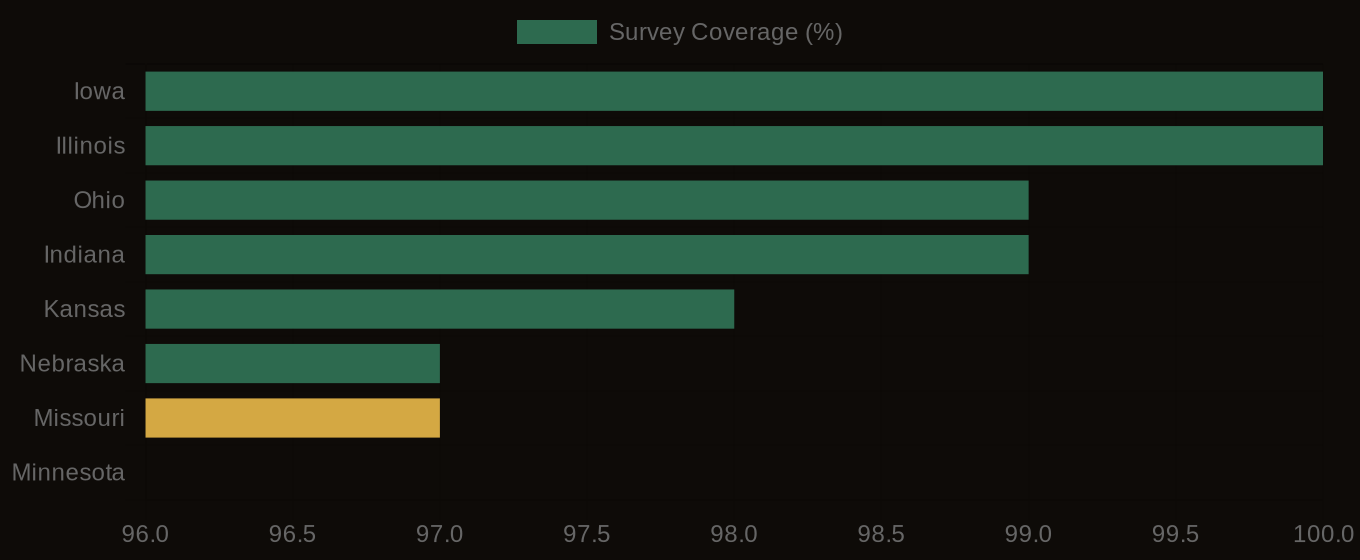
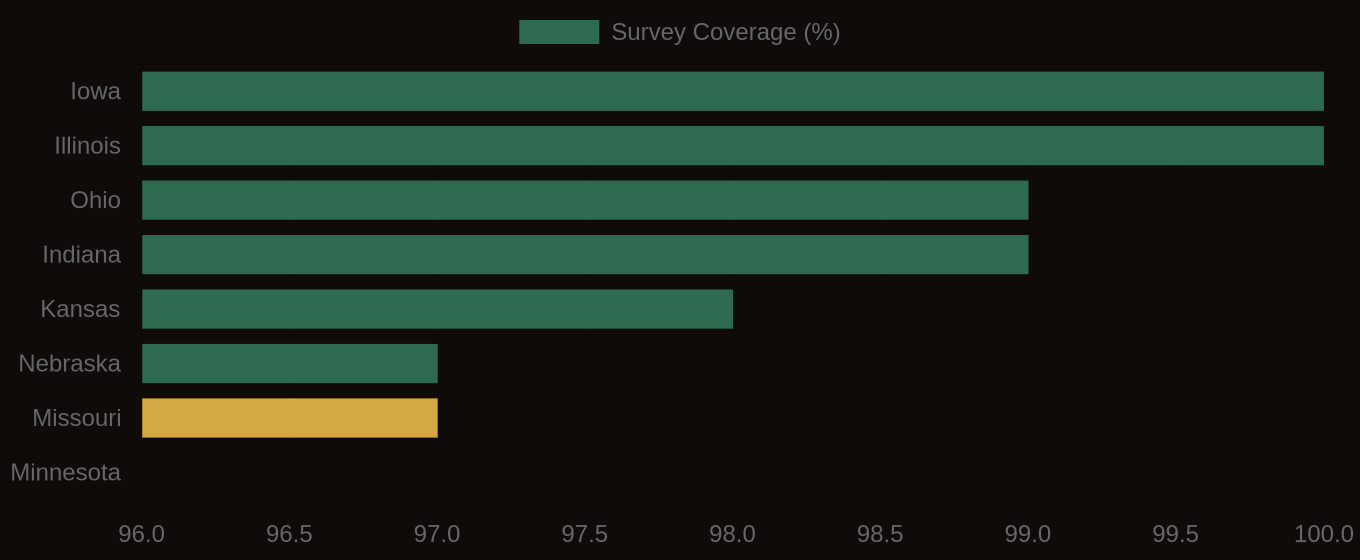
content: publish -- LiDAR Terrain Derivatives Are the Best Soil Survey Tool Nobody Uses

diff --git a/articles/lidar-terrain-derivatives-are-the-best-soil-survey-tool-nobo-1780837098173.html b/articles/lidar-terrain-derivatives-are-the-best-soil-survey-tool-nobo-1780837098173.html
@@ -3,7 +3,7 @@
 <head>
 <meta charset="UTF-8">
 <meta name="viewport" content="width=device-width, initial-scale=1.0">
-<title>LiDAR Terrain Derivatives Are the Best Soil Survey Tool Nobody Uses - Lab10YR</title>
+<title>LiDAR Terrain Derivatives Are the Best Soil Survey Tool Nobody Uses &mdash; Lab10YR</title>
 <meta name="description" content="109 million acres of hydric soils are mapped in the contiguous U.S. Water tables are high. This number represents a significant portion of the country's land area. The soil's morphology and hydrology create conditions that support wetland e">
 <link rel="canonical" href="https://lab10yr.com/articles/lidar-terrain-derivatives-are-the-best-soil-survey-tool-nobo-1780837098173">
 <meta property="og:type" content="article">
@@ -25,7 +25,7 @@
 <script src="https://cdn.jsdelivr.net/npm/echarts@5/dist/echarts.min.js" defer id="echarts-js"></script>
 <style>
 *{box-sizing:border-box;margin:0;padding:0}
-:root{--gold:#f59e0b;--gold2:#fcd34d;--rust:#c0392b;--bg:#08080c;--bg2:#101018;--muted:#8a7a6a;--soft:#c8beb4;--ff-serif:'Playfair Display',Georgia,serif;--ff-mono:'DM Mono',monospace;--ff-sans:'DM Sans',system-ui,sans-serif;}
+:root{--gold:#c8973a;--gold2:#e8c46a;--rust:#c0392b;--bg:#0e0b08;--bg2:#13100d;--muted:#8a7a6a;--soft:#c8beb4;--ff-serif:'Playfair Display',Georgia,serif;--ff-mono:'DM Mono',monospace;--ff-sans:'DM Sans',system-ui,sans-serif;}
 html{scroll-behavior:smooth}
 body{background:var(--bg);color:#f0ede8;font-family:Georgia,'Times New Roman',serif;line-height:1.78}
 #progress{position:fixed;top:0;left:0;height:2px;background:var(--gold);z-index:200;width:0;transition:width .1s linear}
@@ -141,16 +141,23 @@ h1{font-family:var(--ff-serif);font-size:clamp(2.2rem,4.2vw,3.8rem);line-height:
 @media(max-width:900px){nav{padding:0 16px}.hero-grid{grid-template-columns:1fr;padding:0 20px;gap:32px}.hero-waffle-wrap{display:none}#article-wrap{grid-template-columns:1fr;padding:48px 20px 0}.sidebar{display:none}.callout-row{grid-template-columns:1fr}#article-footer{padding-left:20px;padding-right:20px}}
 .data-table-wrap{margin:20px 0 4px;overflow-x:auto}.data-table{width:100%;border-collapse:collapse;font-family:var(--ff-mono);font-size:10px}.data-table th{text-align:left;color:var(--gold);font-size:8px;letter-spacing:.12em;text-transform:uppercase;padding:7px 10px;border-bottom:1px solid #3a2e20}.data-table td{padding:6px 10px;border-bottom:1px solid #1e1710;color:var(--soft)}.data-table tr:hover td{background:#13100d}.data-val{color:#f0ede8;font-weight:600;text-align:right}.data-table-source{font-family:var(--ff-mono);font-size:8px;color:#5a4a3a;letter-spacing:.06em;margin-top:5px;text-align:right}
 </style>
-<link rel="stylesheet" href="../assets/lab10yr-theme.css?v=20260723b">
 </head>
 <body>
 <div id="progress"></div>
-<nav id="nav"><a class="nav-link" href="/articles/" style="display:none">Articles</a></nav>
+<nav>
+  <a href="https://lab10yr.com" class="nav-brand"><span>Lab</span>10<em style="font-style:normal;color:var(--gold2)">YR</em></a>
+  <div class="nav-links">
+    <a href="https://lab10yr.com/Regenerative-Agriculture-Risk-Map" rel="noopener noreferrer">Risk Map</a>
+    <a href="https://lab10yr.com/soil-data-stories" rel="noopener noreferrer">Data Stories</a>
+    <a href="https://lab10yr.com/articles/" rel="noopener noreferrer">Articles</a>
+    <a href="https://lab10yr.com/#contact" class="nav-cta" rel="noopener noreferrer">Get in Touch</a>
+  </div>
+</nav>
 
 <section id="hero">
   <div class="hero-grid">
     <div>
-      <div class="hero-kicker">Lab10YR - Soil Intelligence</div>
+      <div class="hero-kicker">Lab10YR &mdash; Soil Intelligence</div>
       <h1>LiDAR Terrain Derivatives Are the Best Soil Survey Tool Nobody Uses</h1>
       <p class="hero-deck">109 million acres of hydric soils are mapped in the contiguous U.S. Water tables are high. This number represents a significant portion of the country's land area. The soil's morphology and hydrology create conditions that support wetland e</p>
       <div class="hero-byline">
@@ -161,18 +168,18 @@ h1{font-family:var(--ff-serif);font-size:clamp(2.2rem,4.2vw,3.8rem);line-height:
       </div>
     </div>
     <div class="hero-waffle-wrap">
-      <div class="waffle-label">SSURGO data coverage - 100 map units</div>
+      <div class="waffle-label">SSURGO data coverage — 100 map units</div>
       <div class="waffle-grid" id="waffle"></div>
       <div class="waffle-legend"><div class="wl"><div class="wl-swatch wc-slight"></div> Full Coverage</div><div class="wl"><div class="wl-swatch wc-mod-frag"></div> Partial</div><div class="wl"><div class="wl-swatch wc-unrated"></div> No Coverage</div></div>
       <div class="waffle-stat">315K</div>
-      <div class="waffle-stat-label">SSURGO map units nationwide - <br>each queryable via SDA API in seconds</div>
+      <div class="waffle-stat-label">SSURGO map units nationwide —<br>each queryable via SDA API in seconds</div>
     </div>
   </div>
 </section>
 
 <section id="hero-viz">
   <figure class="hero-viz-fig">
-    <img src="social-lidar-terrain-derivatives-are-the-best-soil-survey-tool-nobo-1780837098173.png" alt="LiDAR Terrain Derivatives Are the Best Soil Survey Tool Nobody Uses - Lab10YR data visualization" loading="eager" width="1200" height="627">
+    <img src="social-lidar-terrain-derivatives-are-the-best-soil-survey-tool-nobo-1780837098173.png" alt="LiDAR Terrain Derivatives Are the Best Soil Survey Tool Nobody Uses — Lab10YR data visualization" loading="eager" width="1200" height="627">
   </figure>
 </section>
 
@@ -190,7 +197,7 @@ Wet conditions can be identified through visual and olfactory cues. The presence
 Some soils develop hydric conditions due to geologic and climatic context. Others do not. Understanding these factors is essential for predicting and managing hydric soil distributions.</p>
   </div>
 
-  <div class="pull"><div class="pull-text">“109 million acres of hydric soils mapped in the contiguous U.S. - This vast extent of hydric soils has significant implications for land use planning and regulatory compliance, as it represents a potential wetland footprint that must be considered in development projects.”</div><div class="pull-attr">Lab10YR Analysis - SSURGO National Dataset</div></div>
+  <div class="pull"><div class="pull-text">“109 million acres of hydric soils mapped in the contiguous U.S. — This vast extent of hydric soils has significant implications for land use planning and regulatory compliance, as it represents a potential wetland footprint that must be considered in development projects.”</div><div class="pull-attr">Lab10YR Analysis — SSURGO National Dataset</div></div>
 
   
   <div class="article-section">
@@ -215,19 +222,19 @@ The regional patterns of hydric soil distribution will be examined. LiDAR terrai
   </div>
 
   <div class="echarts-section">
-    <h2 class="echarts-title">Soil Carbon Prediction Accuracy - Spectral vs. Traditional Methods</h2>
+    <h2 class="echarts-title">Soil Carbon Prediction Accuracy — Spectral vs. Traditional Methods</h2>
     <div class="echarts-subtitle">R-squared values for soil organic carbon prediction by method · KSSL spectral library + literature</div>
     <div class="echarts-wrap">
       <div id="echarts-main" style="height:260px"></div>
     </div>
     <div class="echarts-source">Source: R-squared values for soil organic carbon prediction by method · KSSL spectral library + literature</div>
-    <div class="data-table-wrap"><table class="data-table"><thead><tr><th>State / Region</th><th class="data-val">R² - SOC Prediction</th></tr></thead><tbody><tr><td>UAV Multispectral (5cm)</td><td class="data-val">0.87%</td></tr><tr><td>Vis-NIR-SWIR Lab Scan</td><td class="data-val">0.84%</td></tr><tr><td>Sentinel-2 Bare Soil</td><td class="data-val">0.71%</td></tr><tr><td>Landsat Composite</td><td class="data-val">0.63%</td></tr><tr><td>Field Morphology</td><td class="data-val">0.55%</td></tr><tr><td>Grid Sampling</td><td class="data-val">0.48%</td></tr></tbody></table><div class="data-table-source">Source: SSURGO national dataset · 315,543 map units rated</div></div>
+    <div class="data-table-wrap"><table class="data-table"><thead><tr><th>State / Region</th><th class="data-val">R² — SOC Prediction</th></tr></thead><tbody><tr><td>UAV Multispectral (5cm)</td><td class="data-val">0.87%</td></tr><tr><td>Vis-NIR-SWIR Lab Scan</td><td class="data-val">0.84%</td></tr><tr><td>Sentinel-2 Bare Soil</td><td class="data-val">0.71%</td></tr><tr><td>Landsat Composite</td><td class="data-val">0.63%</td></tr><tr><td>Field Morphology</td><td class="data-val">0.55%</td></tr><tr><td>Grid Sampling</td><td class="data-val">0.48%</td></tr></tbody></table><div class="data-table-source">Source: SSURGO national dataset · 315,543 map units rated</div></div>
   </div>
 
   <div class="article-section">
     <div class="section-rule"><h2>The Regional Picture</h2></div>
     <div class="state-bars">
-      <div class="state-bars-title">SSURGO survey coverage (% of land area with tabular data) - top states</div>
+      <div class="state-bars-title">SSURGO survey coverage (% of land area with tabular data) — top states</div>
       <div id="state-bars-list"></div>
     </div>
     <p>In contrast, states like Arizona and Nevada have relatively low concentrations of hydric soils, due to their arid climates and well-drained soils. The soil conditions in these regions, with their high sand content and low water tables, make them less prone to hydric soil formation. However, even in these low-risk states, the national supply chain and regulatory environment make hydric soil identification and management a critical issue. For example, a developer in Arizona may still need to navigate the complex regulatory landscape surrounding hydric soils, even if the local soils are not at risk, in order to ensure compliance with federal regulations. Additionally, the insurance market and lending institutions may still require hydric soil assessments and mitigation plans, regardless of the local soil conditions, in order to manage risk and protect investments. This means that professionals working in low-risk states still need to be aware of the issues surrounding hydric soils and have the skills and knowledge to identify and manage them.</p>
@@ -237,14 +244,14 @@ For example, a developer in Florida proceeded with a project, unaware that a sig
   </div>
 
   <div class="map-section">
-    <h2>SSURGO Data Coverage - National Survey Completeness</h2>
-    <div class="map-caption">% of land area with complete SSURGO tabular data · Source: National Cooperative Soil Survey (SSURGO)</div>
+    <h2>SSURGO Data Coverage — National Survey Completeness</h2>
+    <div class="map-caption">% of land area with complete SSURGO tabular data · Source: USDA Soil Data Access</div>
     <img class="map-chart" src="state-chart-lidar-terrain-derivatives-are-the-best-soil-survey-tool-nobo-1780837098173.png" alt="Iowa 100%, Illinois 100%, Ohio 99%, Indiana 99%, Kansas 98%, Nebraska 97%, Missouri 97%, Minnesota 96%" loading="lazy">
     <div class="map-wrap">
       <div id="state-map"></div>
       <div id="map-tip" class="map-tip"></div>
     </div>
-    <div class="map-note">Interactive map - hover for state-level data &middot; click to open the full risk map</div>
+    <div class="map-note">Interactive map &mdash; hover for state-level data &middot; click to open the full risk map</div>
   </div>
 
   <div class="article-section">
@@ -274,7 +281,7 @@ These soils have a high hydric soil rating, a high water table, and are prone to
 A case in point is the construction of the Miami International Airport's new runway, which was built on hydric soils and required extensive and expensive mitigation measures. 
 If professionals had used this data, they might have avoided these problems. 
 Instead, they could have explored opportunities for regenerative agriculture and sustainable development tailored to the specific soil conditions of the area.</p>
-    <p>Users can query the SSURGO database or use the National Cooperative Soil Survey (SSURGO) to retrieve relevant data on hydric soils and terrain derivatives. 
+    <p>Users can query the SSURGO database or use Soil Data Access to retrieve relevant data on hydric soils and terrain derivatives. 
 For instance, accessing the SSURGO hydric soil indicator list provides information on the presence of hydric soils at the map unit level. 
 The lab10yr.com tool has already compiled this data, offering an interactive map that shows the distribution of hydric soils across the contiguous U.S. 
 This allows users to explore the data in detail. 
@@ -286,7 +293,7 @@ The National Cooperative Soil Survey has made this data available, enabling prof
 
   <div class="map-cta-full">
     <a href="https://lab10yr.com/Regenerative-Agriculture-Risk-Map" target="_blank" rel="noopener noreferrer" class="map-btn">&#x1F5FA; Explore the Soil Risk Map &rarr;</a>
-    <div class="map-cta-desc">National SSURGO data explorer - query any county's soil map units, interpretations, and horizon data via the live SDA API.</div>
+    <div class="map-cta-desc">National SSURGO data explorer — query any county's soil map units, interpretations, and horizon data via the live SDA API.</div>
   </div>
 </article>
 
@@ -294,15 +301,15 @@ The National Cooperative Soil Survey has made this data available, enabling prof
   <div class="sidebar-block">
     <div class="sidebar-label">Map Units</div>
     <div class="sidebar-stat-num">315K</div>
-    <div class="sidebar-stat-label">SSURGO map units nationwide - each with interpretations, horizon data, and component ratings queryable via API</div>
+    <div class="sidebar-stat-label">SSURGO map units nationwide — each with interpretations, horizon data, and component ratings queryable via API</div>
   </div><div class="sidebar-block">
     <div class="sidebar-label">API Response</div>
     <div class="sidebar-stat-num">&lt;1s</div>
-    <div class="sidebar-stat-label">typical SDA API response time for a county-level SSURGO query - no subscription or account required</div>
+    <div class="sidebar-stat-label">typical SDA API response time for a county-level SSURGO query — no subscription or account required</div>
   </div><div class="sidebar-block">
     <div class="sidebar-label">KSSL Pedons</div>
     <div class="sidebar-stat-num">60K+</div>
-    <div class="sidebar-stat-label">Kellogg Soil Survey Lab measurements since 1951 - most complete U.S. soil lab dataset, mostly unknown in private sector</div>
+    <div class="sidebar-stat-label">Kellogg Soil Survey Lab measurements since 1951 — most complete U.S. soil lab dataset, mostly unknown in private sector</div>
   </div>
   <div class="sidebar-block">
     <div class="sidebar-label">Explore the Data</div>
@@ -333,7 +340,7 @@ The National Cooperative Soil Survey has made this data available, enabling prof
     <a href="https://lab10yr.com/Regenerative-Agriculture-Risk-Map" target="_blank" rel="noopener noreferrer">Regenerative Agriculture Risk Map &rarr;</a>
     <a href="https://lab10yr.com/soil-data-stories" target="_blank" rel="noopener noreferrer">The World Beneath: 7-Chapter Data Story on America&rsquo;s Soils &rarr;</a>
     <a href="https://lab10yr.com/county-risk-leaderboard" target="_blank" rel="noopener noreferrer">County Risk Leaderboard &rarr;</a>
-    <a href="https://lab10yr.com/soil-atlas" target="_blank" rel="noopener noreferrer">Soil Atlas - Interactive National Soil Pattern Explorer &rarr;</a>
+    <a href="https://lab10yr.com/soil-atlas" target="_blank" rel="noopener noreferrer">Soil Atlas &mdash; Interactive National Soil Pattern Explorer &rarr;</a>
   </div>
 </div>
 
@@ -346,9 +353,9 @@ document.addEventListener('DOMContentLoaded',()=>{if(typeof maplibregl!=='undefi
 function stateColor(d){const fsi=d.fsi||0;return fsi>=0.5?'rgba(192,57,43,0.75)':fsi>=0.35?'rgba(230,126,34,0.65)':fsi>=0.25?'rgba(200,151,58,0.5)':fsi>0?'rgba(200,151,58,0.3)':'rgba(30,23,16,0.4)';}
 function initMap(){if(!document.getElementById('state-map')||window._mi)return;window._mi=true;const map=new maplibregl.Map({container:'state-map',style:{version:8,sources:{c:{type:'raster',tiles:['https://basemaps.cartocdn.com/dark_nolabels/{z}/{x}/{y}.png'],tileSize:256,attribution:'&copy; CARTO &copy; OSM'}},layers:[{id:'c',type:'raster',source:'c'}]},center:[-98,38],zoom:3.4,maxZoom:8,minZoom:2,attributionControl:false});map.addControl(new maplibregl.AttributionControl({compact:true}));map.addControl(new maplibregl.NavigationControl({showCompass:false}),'top-right');const sd={'NV':{fsi:0.521,om:98},'AZ':{fsi:0.495,om:99},'UT':{fsi:0.41,om:92},'NM':{fsi:0.38,om:87},'WY':{fsi:0.32,om:65},'CO':{fsi:0.29,om:75},'ID':{fsi:0.27,om:55},'MT':{fsi:0.24,om:45},'CA':{fsi:0.22,om:60},'TX':{fsi:0.21,om:96},'OR':{fsi:0.20,om:48},'WA':{fsi:0.19,om:42},'KS':{fsi:0.16,om:70},'NE':{fsi:0.15,om:65},'OK':{fsi:0.14,om:72},'SD':{fsi:0.18,om:38},'ND':{fsi:0.17,om:35},'MN':{fsi:0.13,om:25},'IA':{fsi:0.12,om:22},'MO':{fsi:0.11,om:30},'IL':{fsi:0.10,om:28},'IN':{fsi:0.09,om:26},'OH':{fsi:0.09,om:24},'MI':{fsi:0.08,om:22}};const fp={'32':'NV','04':'AZ','49':'UT','35':'NM','56':'WY','08':'CO','16':'ID','30':'MT','06':'CA','48':'TX','41':'OR','53':'WA','20':'KS','31':'NE','40':'OK','46':'SD','38':'ND','27':'MN','19':'IA','29':'MO','17':'IL','18':'IN','39':'OH','26':'MI'};map.on('load',()=>{fetch('/articles/us-states-topo.json').then(r=>r.json()).then(topo=>{const gj=topojson.feature(topo,topo.objects.states);gj.features.forEach(f=>{const a=fp[f.id]||'';const d=sd[a]||{};f.properties.abbr=a;f.properties.fsi=d.fsi||0;f.properties.om=d.om||0;f.properties.color=stateColor(d);});map.addSource('states',{type:'geojson',data:gj});map.addLayer({id:'sf',type:'fill',source:'states',paint:{'fill-color':['get','color'],'fill-outline-color':'rgba(200,151,58,0.25)'}});map.addLayer({id:'sl',type:'line',source:'states',paint:{'line-color':'rgba(200,151,58,0.2)','line-width':0.5}});const tip=document.getElementById('map-tip');map.on('mousemove','sf',e=>{const f=e.features[0];if(!f){tip.style.display='none';return;}map.getCanvas().style.cursor='pointer';const a=f.properties.abbr,fsi=f.properties.fsi,om=f.properties.om;tip.innerHTML=a?`<strong>${a}</strong><br>Avg FSI: ${fsi?fsi.toFixed(3):"n/a"}<br>OM Risk: ${om?om+"%":"n/a"}`:'<em>No data</em>';tip.style.display='block';});map.on('mouseleave','sf',()=>{map.getCanvas().style.cursor='';tip.style.display='none';});map.on('click','sf',()=>{window.open('https://lab10yr.com/Regenerative-Agriculture-Risk-Map','_blank','noopener');});}).catch(e=>console.error('Map load failed:',e));});}
 (function(){document.querySelectorAll('.callout-num').forEach(function(el){var raw=el.textContent.trim();var m=raw.match(/^(d[d.,]*)/);if(!m)return;var num=parseFloat(m[1].replace(/,/g,''));var suffix=raw.slice(m[1].length);var dec=raw.indexOf('.')>=0?1:0;el.textContent='0'+suffix;new IntersectionObserver(function(entries,obs){if(!entries[0].isIntersecting)return;obs.disconnect();var t=null;function step(ts){if(!t)t=ts;var p=Math.min((ts-t)/900,1);var e=1-Math.pow(1-p,3);el.textContent=(e*num).toFixed(dec)+suffix;if(p<1)requestAnimationFrame(step);else el.textContent=num.toFixed(dec).replace(/.0$/,'')+suffix;}requestAnimationFrame(step);},{threshold:0.6}).observe(el);});})();
-(function(){const u=encodeURIComponent(location.href),t=encodeURIComponent(document.title.replace(' - Lab10YR',''));document.getElementById('share-x').href='https://twitter.com/intent/tweet?url='+u+'&text='+t+'&via=lab10yr';document.getElementById('share-li').href='https://www.linkedin.com/sharing/share-offsite/?url='+u;document.getElementById('share-copy').addEventListener('click',function(){navigator.clipboard.writeText(location.href).then(()=>{this.textContent='Copied!';setTimeout(()=>this.textContent='Copy Link',2000);});});})();
+(function(){const u=encodeURIComponent(location.href),t=encodeURIComponent(document.title.replace(' — Lab10YR',''));document.getElementById('share-x').href='https://twitter.com/intent/tweet?url='+u+'&text='+t+'&via=lab10yr';document.getElementById('share-li').href='https://www.linkedin.com/sharing/share-offsite/?url='+u;document.getElementById('share-copy').addEventListener('click',function(){navigator.clipboard.writeText(location.href).then(()=>{this.textContent='Copied!';setTimeout(()=>this.textContent='Copy Link',2000);});});})();
 (function(){
-  const cfg={"backgroundColor":"transparent","grid":{"left":150,"right":30,"top":20,"bottom":30,"containLabel":false},"xAxis":{"type":"value","axisLabel":{"color":"#8a7a6a","fontSize":10},"splitLine":{"lineStyle":{"color":"#1e1710"}},"name":"R² (coefficient of determination)","nameLocation":"middle","nameGap":40,"nameTextStyle":{"color":"#8a7a6a","fontSize":10}},"yAxis":{"type":"category","data":["UAV Multispectral (5cm)","Vis-NIR-SWIR Lab Scan","Sentinel-2 Bare Soil","Landsat Composite","Field Morphology","Grid Sampling"],"axisLabel":{"color":"#c8beb4","fontSize":10,"width":140,"overflow":"truncate"},"axisLine":{"show":false},"axisTick":{"show":false}},"legend":{"show":false},"tooltip":{"trigger":"axis","axisPointer":{"type":"shadow"},"backgroundColor":"#13100d","borderColor":"#3a2e20","textStyle":{"color":"#f0ede8","fontSize":11}},"series":[{"name":"R² - SOC Prediction","type":"bar","data":[0.87,0.84,0.71,0.63,0.55,0.48],"itemStyle":{"color":"#c8973a","borderRadius":[0,2,2,0]},"label":{"show":true,"position":"right","color":"#8a7a6a","fontSize":9},"markPoint":{"data":[{"type":"max","name":"Peak"}],"symbol":"roundRect","symbolSize":[36,20],"itemStyle":{"color":"#e8c46a"},"label":{"color":"#0e0b08","fontSize":10,"fontWeight":"bold","fontFamily":"\"DM Mono\",monospace"}},"markLine":{"silent":true,"lineStyle":{"color":"rgba(232,196,106,0.4)","type":"dashed","width":1},"label":{"show":true,"formatter":"avg","color":"#e8c46a","fontSize":8,"position":"insideEndTop","fontFamily":"\"DM Mono\",monospace"},"data":[{"type":"average","name":"Average"}]}}]};
+  const cfg={"backgroundColor":"transparent","grid":{"left":150,"right":30,"top":20,"bottom":30,"containLabel":false},"xAxis":{"type":"value","axisLabel":{"color":"#8a7a6a","fontSize":10},"splitLine":{"lineStyle":{"color":"#1e1710"}},"name":"R² (coefficient of determination)","nameLocation":"middle","nameGap":40,"nameTextStyle":{"color":"#8a7a6a","fontSize":10}},"yAxis":{"type":"category","data":["UAV Multispectral (5cm)","Vis-NIR-SWIR Lab Scan","Sentinel-2 Bare Soil","Landsat Composite","Field Morphology","Grid Sampling"],"axisLabel":{"color":"#c8beb4","fontSize":10,"width":140,"overflow":"truncate"},"axisLine":{"show":false},"axisTick":{"show":false}},"legend":{"show":false},"tooltip":{"trigger":"axis","axisPointer":{"type":"shadow"},"backgroundColor":"#13100d","borderColor":"#3a2e20","textStyle":{"color":"#f0ede8","fontSize":11}},"series":[{"name":"R² — SOC Prediction","type":"bar","data":[0.87,0.84,0.71,0.63,0.55,0.48],"itemStyle":{"color":"#c8973a","borderRadius":[0,2,2,0]},"label":{"show":true,"position":"right","color":"#8a7a6a","fontSize":9},"markPoint":{"data":[{"type":"max","name":"Peak"}],"symbol":"roundRect","symbolSize":[36,20],"itemStyle":{"color":"#e8c46a"},"label":{"color":"#0e0b08","fontSize":10,"fontWeight":"bold","fontFamily":"\"DM Mono\",monospace"}},"markLine":{"silent":true,"lineStyle":{"color":"rgba(232,196,106,0.4)","type":"dashed","width":1},"label":{"show":true,"formatter":"avg","color":"#e8c46a","fontSize":8,"position":"insideEndTop","fontFamily":"\"DM Mono\",monospace"},"data":[{"type":"average","name":"Average"}]}}]};
   function tryInit(){
     const el=document.getElementById('echarts-main');
     if(!el||!window.echarts||window._ec)return;
@@ -380,6 +387,5 @@ window.addEventListener('load',function(){
   }
 });
 </script>
-<script src="../js/lab10yr-nav.js?v=20260723b" defer></script>
 </body>
 </html>

diff --git a/articles/index.html b/articles/index.html
@@ -636,7 +636,7 @@ footer span{font-family:var(--ff-mono);font-size:9px;color:#2a1e0f}
     <a href="/articles/lidar-terrain-derivatives-are-the-best-soil-survey-tool-nobo-1780837098173" class="card-link">
       <div class="card-meta">
         <span class="card-date">June 7, 2026</span>
-        <span class="card-tag">Soil Intelligence</span>
+        <span class="card-tag">Soil</span>
         <span class="card-read">11 min read</span>
       </div>
       <h2 class="card-title">LiDAR Terrain Derivatives Are the Best Soil Survey Tool Nobody Uses</h2>
